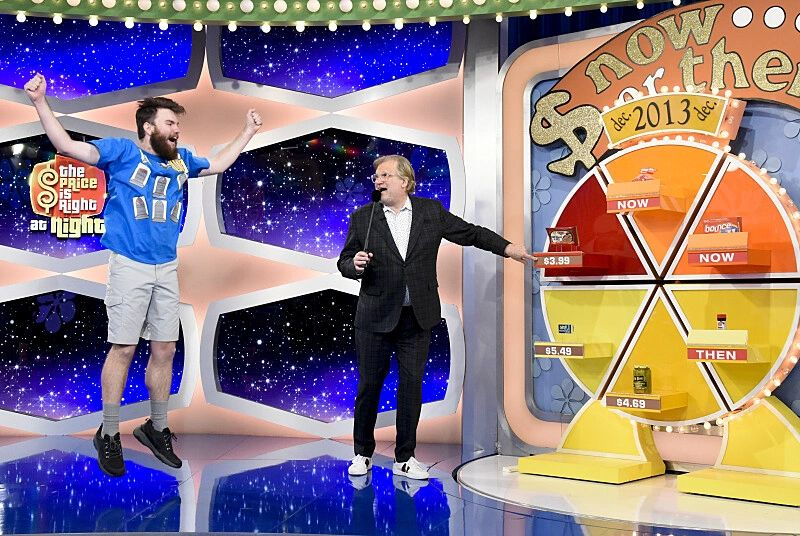
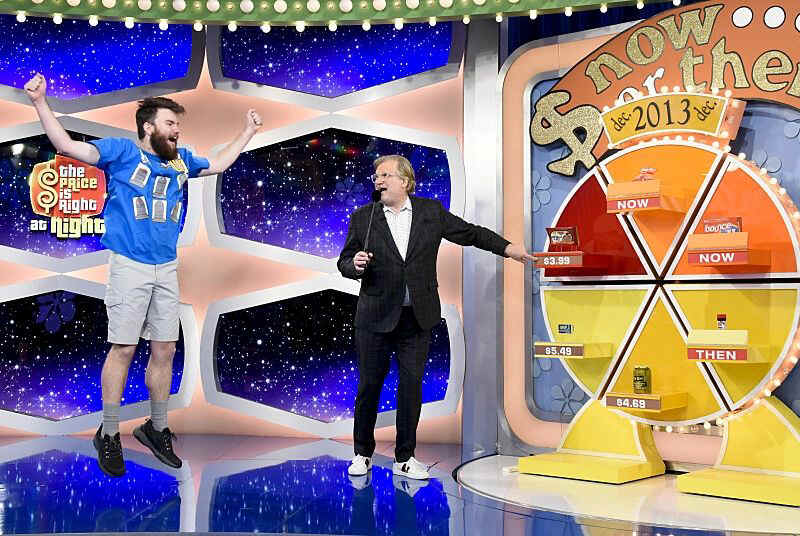
cheeseisnow8

diff --git a/_vti_cnf/cheeseisnow.html b/_vti_cnf/cheeseisnow.html
@@ -1,11 +1,11 @@
 vti_encoding:SR|utf8-nl
-vti_cachedlinkinfo:VX|S|_borders/img1.wsimg.jpg H|http://fabulousti.me S|images/rsw_1535m.jpg K|https://www.golden-road.net/index.php/topic,33862.msg502130.html S|images/2rsw_1535m.jpg S|images/IMG_6224.jpg H|https://www.youtube.com/@Jsach3 H|https://www.instagram.com/jsach65/ H|https://x.com/Jsach65 H|https://www.twitch.tv/jsach3 H|http://jsach.net H|https://www.youtube.com/@Jsach3 H|https://www.youtube.com/@Jsach3 H|https://www.youtube.com/@Jsach3 H|http://www.microsoft.com/frontpage/ S|images/frontpag.gif
+vti_cachedlinkinfo:VX|S|images/img1.wsimg.jpg H|http://fabulousti.me S|images/rsw_1535m.jpg K|https://www.golden-road.net/index.php/topic,33862.msg502130.html S|images/2rsw_1535m.jpg S|images/IMG_6224.jpg H|https://www.youtube.com/@Jsach3 H|https://www.instagram.com/jsach65/ H|https://x.com/Jsach65 H|https://www.twitch.tv/jsach3 H|http://jsach.net H|https://www.youtube.com/@Jsach3 H|https://www.youtube.com/@Jsach3 H|https://www.youtube.com/@Jsach3 H|http://www.microsoft.com/frontpage/ S|images/frontpag.gif
 vti_themeaggregate:SR|artsy 111
 vti_timecreated:TR|06 Jan 2026 15:44:55 -0500
-vti_cacheddtm:TX|06 Jan 2026 21:39:39 -0500
-vti_timelastmodified:TR|06 Jan 2026 21:39:39 -0500
+vti_cacheddtm:TX|06 Jan 2026 21:44:40 -0500
+vti_timelastmodified:TR|06 Jan 2026 21:44:40 -0500
 vti_cachedhasbots:BR|true
-vti_filesize:IX|4651
+vti_filesize:IX|4649
 vti_extenderversion:SR|3.0.2.1330
 vti_borderaggregate:SR|tl, default
 vti_cachedtitle:SR|The Cheese is Now!
@@ -14,7 +14,7 @@ vti_cachedhasborder:BR|true
 vti_author:SR|Administrator
 vti_cachedhastheme:BR|true
 vti_cachedbodystyle:SR|<body background="_themes/artsy/arttilea.jpg" bgcolor="#333333" text="#FFFF99" link="#FFCC00" vlink="#999966" alink="#66FF00">
-vti_nexttolasttimemodified:TW|06 Jan 2026 21:33:52 -0500
+vti_nexttolasttimemodified:TW|06 Jan 2026 21:39:39 -0500
 vti_title:SR|The Cheese is Now!
 vti_modifiedby:SR|Administrator
 vti_structuredtm:TR|06 Jan 2026 16:14:25 -0500

diff --git a/cheeseisnow.html b/cheeseisnow.html
@@ -18,7 +18,7 @@
 <p>&nbsp;</p>
 <!--mstheme--></font></td><td valign="top" width="24"></td><!--msnavigation--><td valign="top"><!--mstheme--><font face="garamond, times new roman, times">
 
-<p align="center"><img src="_borders/img1.wsimg.jpg" alt="Jsach winning big on The Price is Right. He is jumping for joy next to Drew Carey playing the Now or Then game." WIDTH="800" HEIGHT="536"></p>
+<p align="center"><img src="images/img1.wsimg.jpg" alt="Jsach winning big on The Price is Right. He is jumping for joy next to Drew Carey playing the Now or Then game." WIDTH="800" HEIGHT="536"></p>
 
 <p align="center">&nbsp;</p>
 
